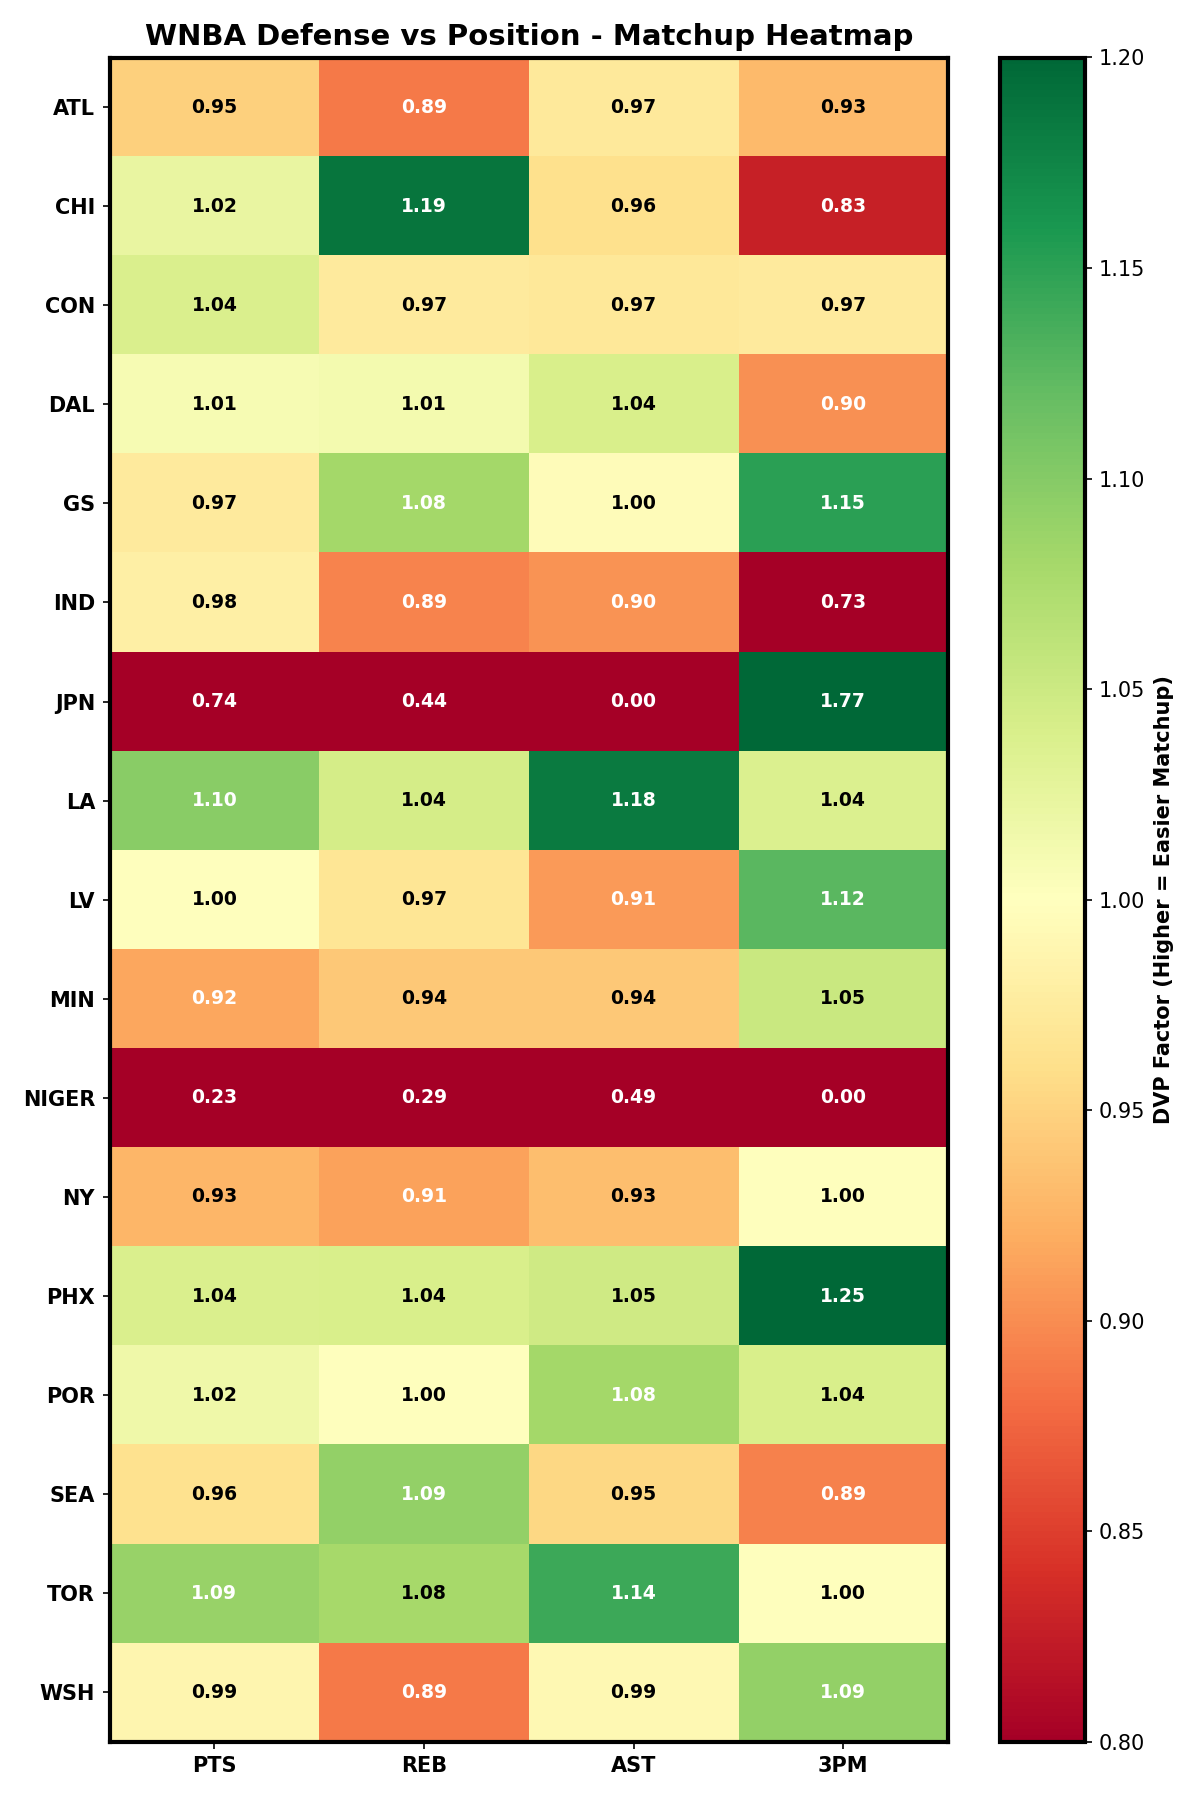
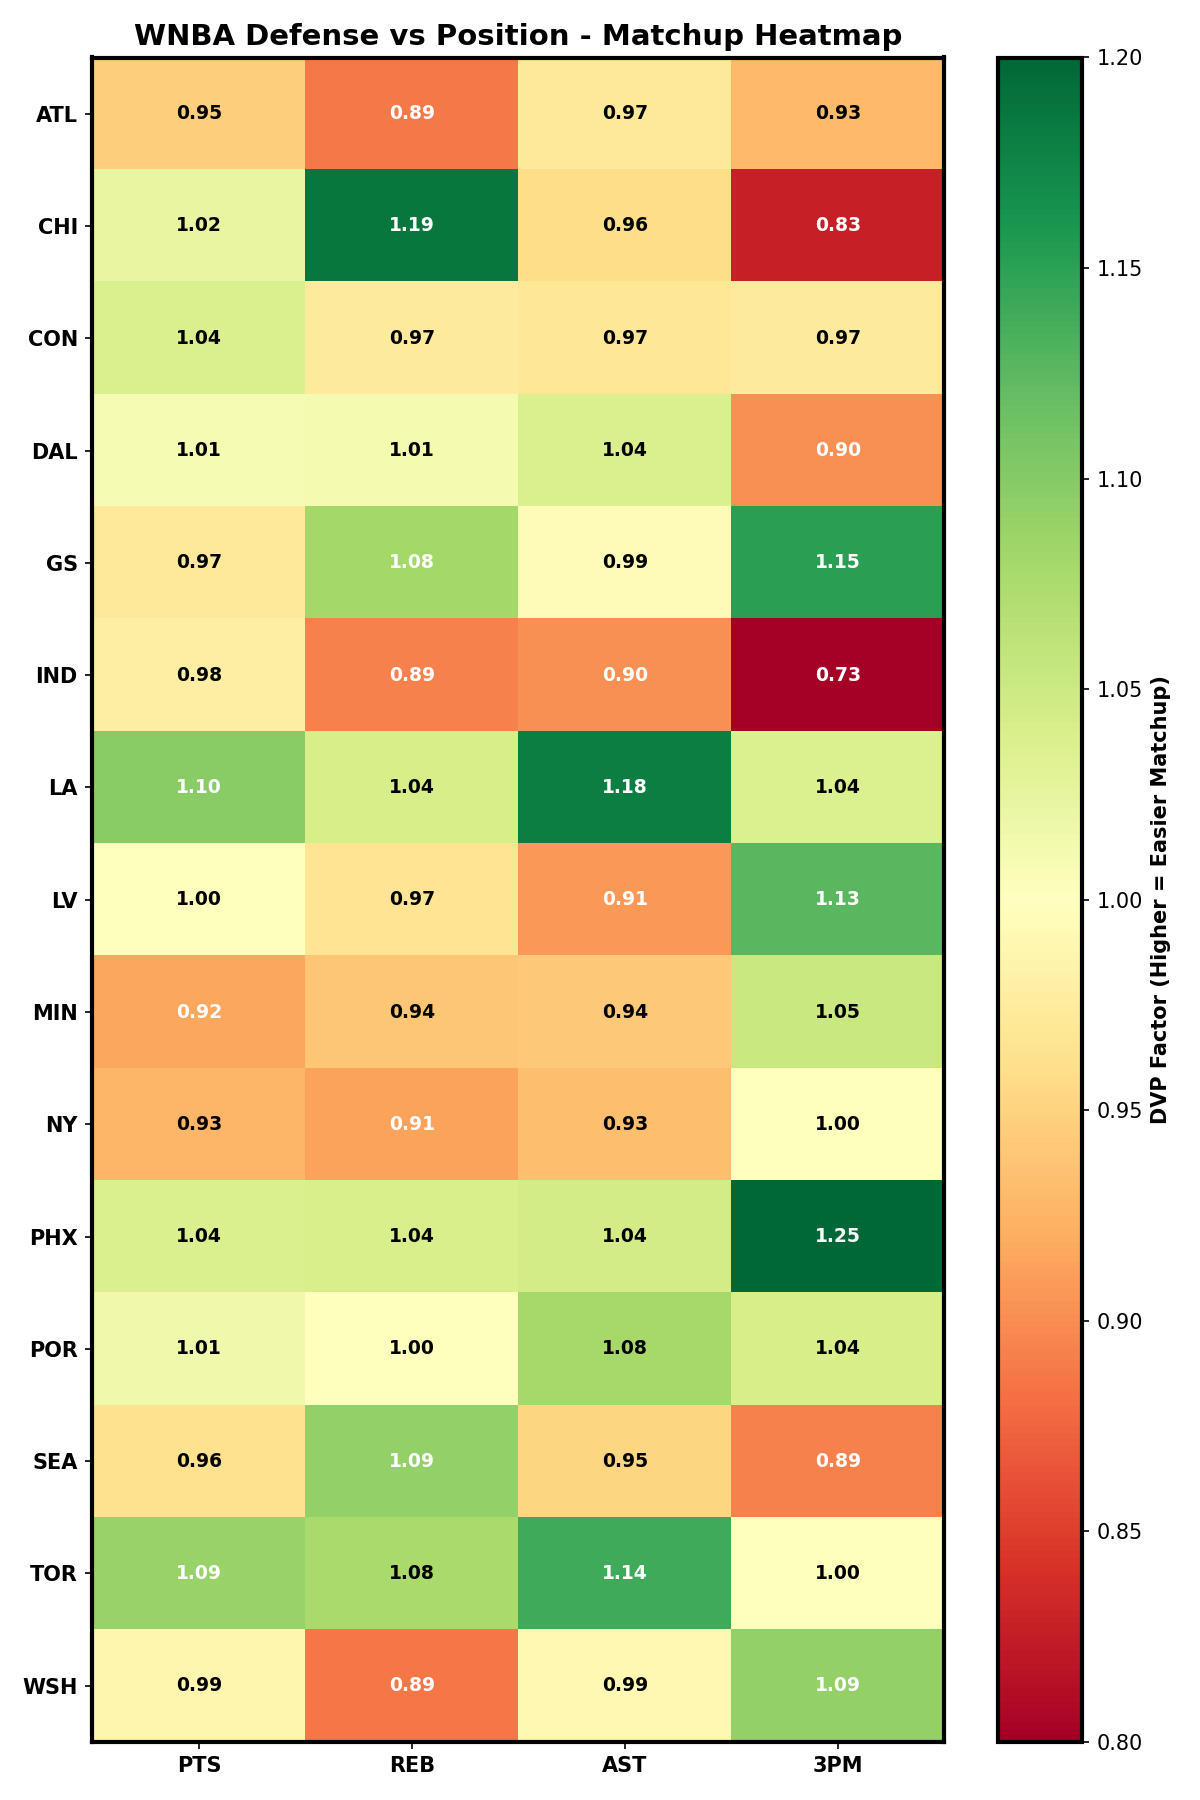
WNBA DVP: exclude preseason exhibition opponents (NIGER/JPN) (2026-06-15 13:03)

diff --git a/build_wnba_projections.py b/build_wnba_projections.py
@@ -45,6 +45,14 @@ def _mean(xs):
 def build_dvp(cur):
     cur.execute("DROP TABLE IF EXISTS wnba_dvp")
     cur.execute("CREATE TABLE wnba_dvp (team TEXT, stat TEXT, factor REAL, PRIMARY KEY (team, stat))")
+    # Valid WNBA opponents = the real franchises our players play for. Preseason
+    # exhibitions vs national teams (e.g. NIGER, JPN) leak into the opp column;
+    # restricting to actual franchises keeps those out of the DVP ratings.
+    valid_teams = {
+        r[0] for r in cur.execute(
+            "SELECT DISTINCT team FROM wnba_player_game_logs WHERE team != ''"
+        ).fetchall()
+    }
     rows = cur.execute(
         "SELECT opp, pts, reb, ast, fg3m FROM wnba_player_game_logs WHERE opp != ''"
     ).fetchall()
@@ -54,6 +62,8 @@ def build_dvp(cur):
         all_vals = []
         for r in rows:
             opp = r[0]
+            if opp not in valid_teams:
+                continue
             val = r[skey_idx]
             by_team.setdefault(opp, []).append(val)
             all_vals.append(val)
